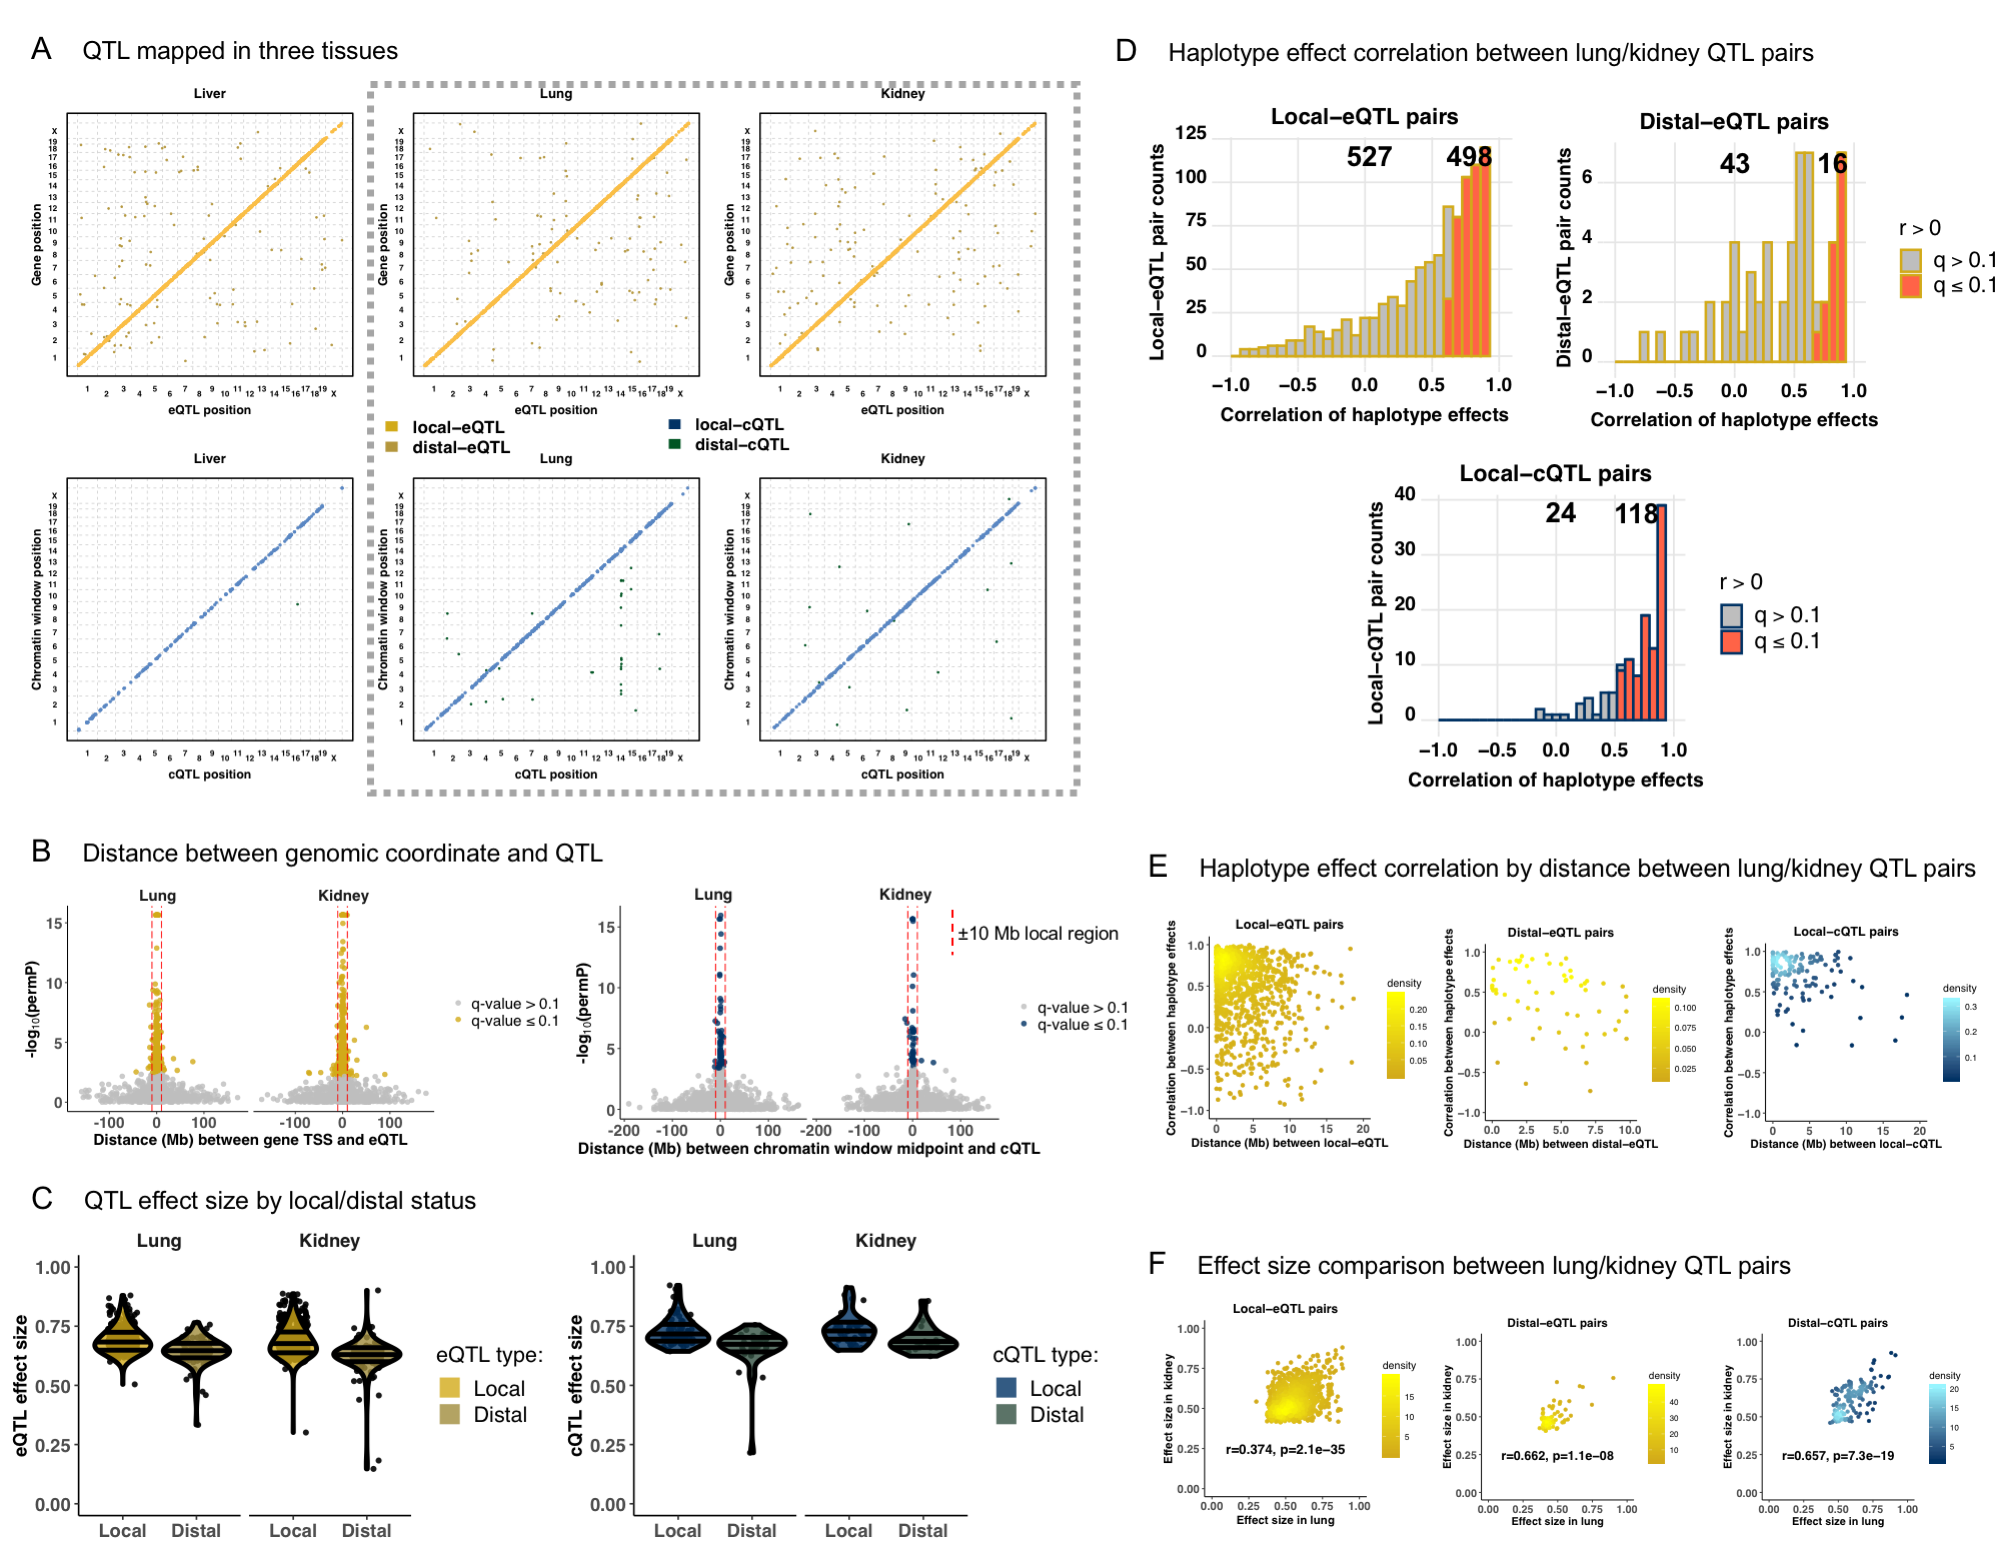
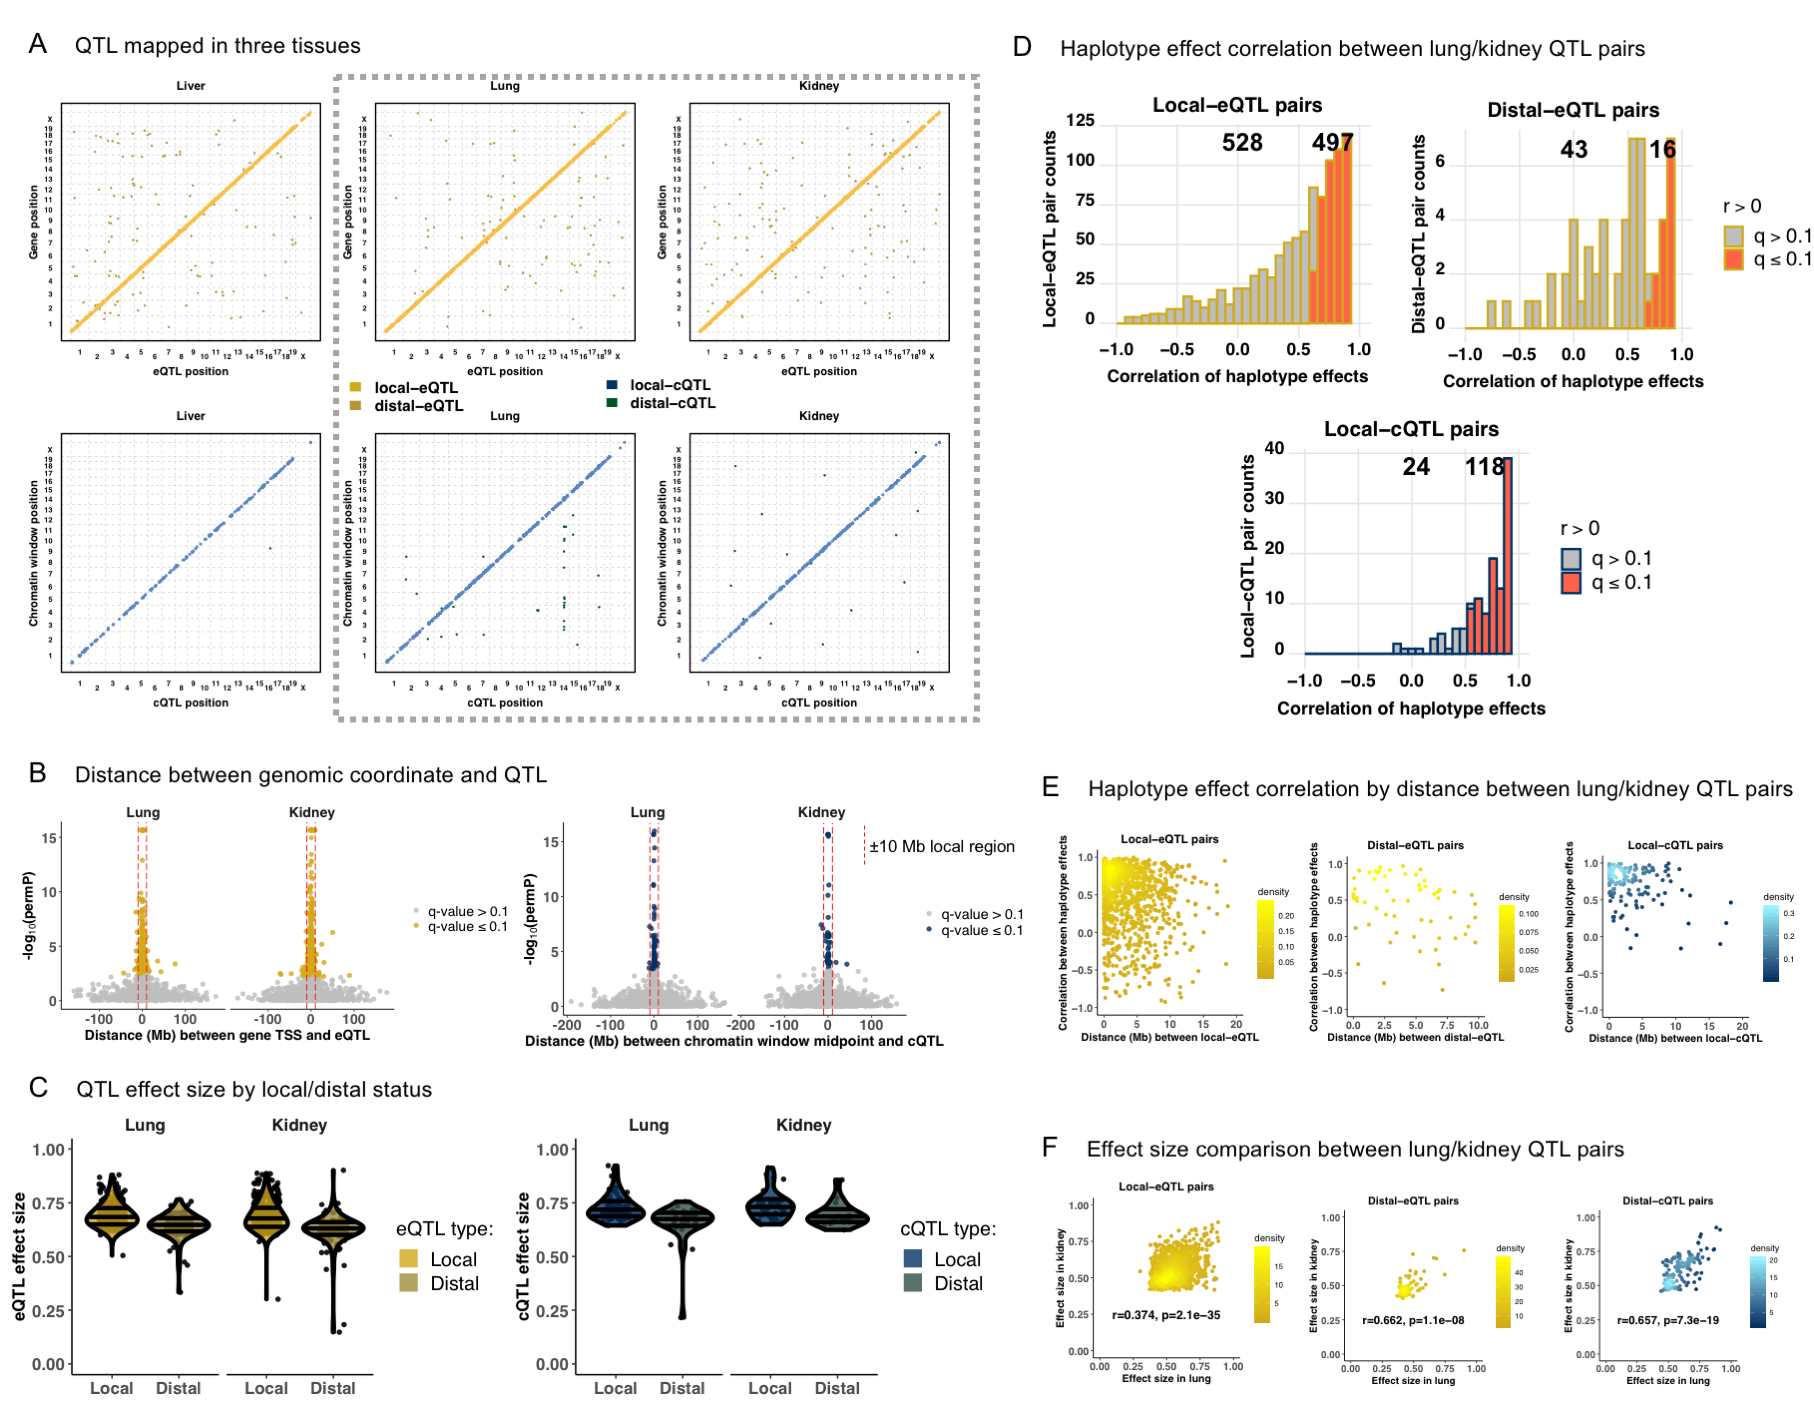
Fixed minor errors

diff --git a/cc_tissue_paper_plos_genetics_revision.tex b/cc_tissue_paper_plos_genetics_revision.tex
@@ -390,12 +390,12 @@ For all QTL we estimated the effects of the underlying founder haplotypes. Consi
 
 For a given trait, QTL from different tissues were paired based on co-localizing to approximately the same genomic region. For local-QTL, both had to be within the local window, defined as 10Mb around the gene TSS or chromatin region midpoint, resulting in a maximum distance of 20Mb between QTL. For distal-eQTL, both had to be within 10Mb of each other. 
 To assess the consistency between the QTL paired across tissue, the correlations between the founder haplotype effects were tested (FDR $\le 0.1$; Fig \ref{fig:qtl_results}D and \nameref{S_qtl_pair_histograms}), revealing significant positive correlations as would be expected for QTL acting similary in both tissues (multi-tissue QTL).
-For local-eQTL, we found significant haplotype effect correlations between 345 of 761 possible pairs (45.3\%) in liver/lung, 623 of 1206 (51.7\%) in liver/kidney, and 498 of 1025 (48.6\%) in lung/kidney. For distal-eQTL, we found significant correlations between 21 of 61 possible pairs (31.8\%) in liver/lung, 34 of 120 (28.8\%) in liver/kidney, and 16 of 59 (27.1 \%) in lung/kidney. For cQTL, the vast majority of correlated pairs were local, with 47 of 55 (85.5\%) possible pairs in liver/lung, 48 of 56 (85.7\%) in liver/kidney, and 118 of 142 (83.1\%) in lung/kidney being significantly correlated. Only 4 distal-cQTL pairs were observed, all between lung and kidney, with three of the four pairs possessing nominal correlation $p$-values $\le$ 0.05. The effect sizes of paired QTL varied across tissues, though for any given tissue pairing, the effect sizes were significantly correlated (least significant $p$-value =\num{4.6e-8}; Fig \ref{fig:qtl_results}F and \nameref{S_qtl_effect_size_comparison}). No significantly negatively correlated QTL pairs were detected after accounting for multiple testing (FDR $\le 0.1$).
+For local-eQTL, we found significant haplotype effect correlations between 345 of 761 possible pairs (45.3\%) in liver/lung, 623 of 1206 (51.7\%) in liver/kidney, and 497 of 1025 (48.5\%) in lung/kidney. For distal-eQTL, we found significant correlations between 21 of 61 possible pairs (31.8\%) in liver/lung, 34 of 120 (28.8\%) in liver/kidney, and 16 of 59 (27.1 \%) in lung/kidney. For cQTL, the vast majority of correlated pairs were local, with 47 of 55 (85.5\%) possible pairs in liver/lung, 48 of 56 (85.7\%) in liver/kidney, and 118 of 142 (83.1\%) in lung/kidney being significantly correlated. Only 4 distal-cQTL pairs were observed, all between lung and kidney, with three of the four pairs possessing nominal correlation $p$-values $\le$ 0.05. The effect sizes of paired QTL varied across tissues, though for any given tissue pairing, the effect sizes were significantly correlated (least significant $p$-value =\num{4.6e-8}; Fig \ref{fig:qtl_results}F and \nameref{S_qtl_effect_size_comparison}). No significantly negatively correlated QTL pairs were detected after accounting for multiple testing (FDR $\le 0.1$).
 %, consistent with being tissue-specific QTL with transgressive effects when compared across tissues.}
 
 %\subsubsection*{Multi-tissue QTL pairs share similar haplotype effects across tissues}
 
- %(FDR $\le 0.1$) for 345 (45.3\%; liver/lung), 623 (51.7\%; liver/kidney), and 498 (48.6\%; lung/kidney) local-eQTL pairs and 21 (31.8\%; liver/lung), 34 (28.8\%; liver/kidney), and 16 (27.1\%; lung/kidney) distal-eQTL pairs. Highly correlated QTL pairs were very close in genomic distance to each other (Fig \ref{fig:qtl_results}E and \nameref{S_qtl_cor_by_distance_comparison}), suggesting that the underlying causal variants are the same or linked. For local-cQTL, 47 (85.5\%; liver/lung), 48 (85.7\%; liver/kidney), and 118 (83.1\%; lung/kidney) significantly positively correlated pairs were identified. The correlations between distal-cQTLs were not formally tested because there were only four pairs; however, three of the four pairs had correlations greater than 0.5. No significantly negatively correlated QTL pairs were detected, after accounting for multiple testing (FDR $\le 0.1$)\GKinline{, consistent with being tissue-specific QTL with transgressive effects when compared across tissues}.
+ %(FDR $\le 0.1$) for 345 (45.3\%; liver/lung), 623 (51.7\%; liver/kidney), and 497 (48.5\%; lung/kidney) local-eQTL pairs and 21 (31.8\%; liver/lung), 34 (28.8\%; liver/kidney), and 16 (27.1\%; lung/kidney) distal-eQTL pairs. Highly correlated QTL pairs were very close in genomic distance to each other (Fig \ref{fig:qtl_results}E and \nameref{S_qtl_cor_by_distance_comparison}), suggesting that the underlying causal variants are the same or linked. For local-cQTL, 47 (85.5\%; liver/lung), 48 (85.7\%; liver/kidney), and 118 (83.1\%; lung/kidney) significantly positively correlated pairs were identified. The correlations between distal-cQTLs were not formally tested because there were only four pairs; however, three of the four pairs had correlations greater than 0.5. No significantly negatively correlated QTL pairs were detected, after accounting for multiple testing (FDR $\le 0.1$)\GKinline{, consistent with being tissue-specific QTL with transgressive effects when compared across tissues}.
 
 \subsubsection*{\textit{Cox7c}: Consistent haplotype effects for multi-tissue local-eQTL}
 Cytochrome c oxidase subunit 7C (\textit{Cox7c}) is an example of a gene that possessed local-eQTL with highly correlated effects in all three tissues (Fig \ref{fig:correlated_local_eqtl}A).

diff --git a/multitissue_supplement_plos_revision.tex b/multitissue_supplement_plos_revision.tex
@@ -68,8 +68,9 @@ Data and analysis files in the \textbf{Supplement} include:
 	\item File\_S22 - S24: \{liver,lung,kidney\}\_local\_cqtl.csv
 	\item File\_S25 - S27: \{liver,lung,kidney\}\_distal\_cqtl.csv
 	\item File\_S28 - S30: \{liver,lung,kidney\}\_chromatin\_mediation.csv
-	\item File\_S31: supplement\_tables\_figures.pdf
-	\item File\_S32: appendices.pdf
+	\item File\_S31: refseq\_mm9\_tss.txt.zip
+	\item File\_S32: supplement\_tables\_figures.pdf
+	\item File\_S33: appendices.pdf
 \end{itemize}
 
 \section*{miQTL package}
